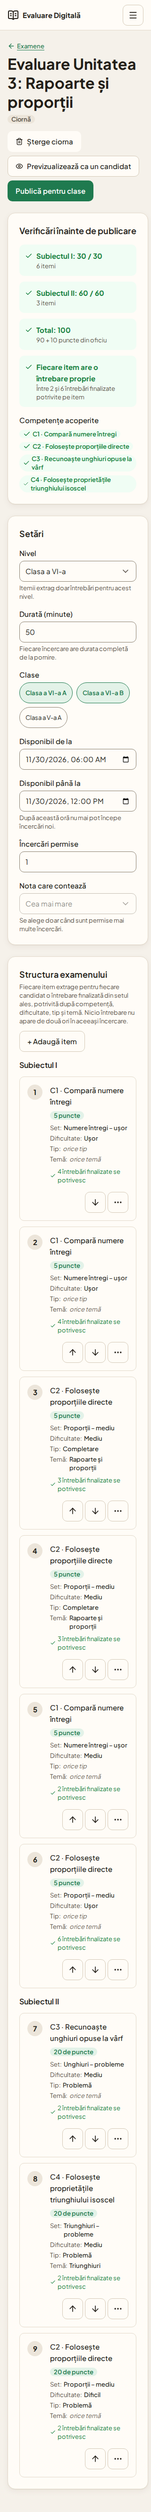
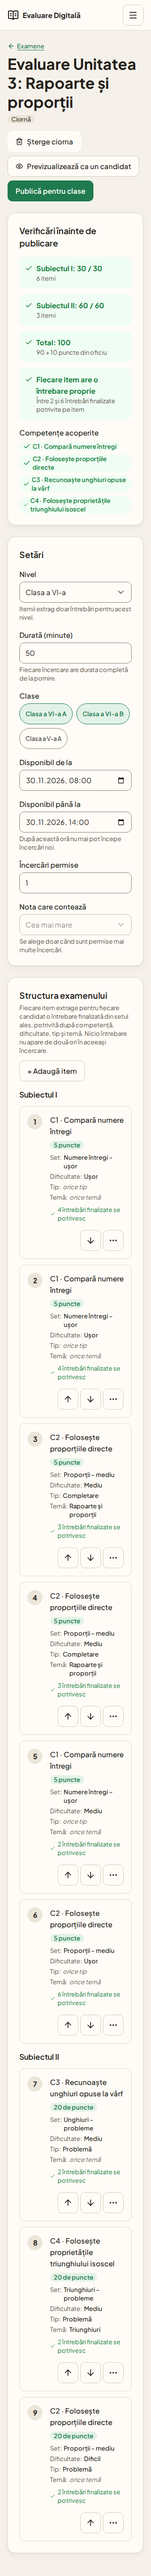
perf(frontend): load signed-in pages on demand; test(e2e): Romanian locale and Bucharest time for screenshots
The main bundle drops from 503 kB to 323 kB (Vite's 500 kB warning is gone); each signed-in page is
its own chunk, with a spinner while it loads. Playwright runs with ro-RO and Europe/Bucharest (plus
LANG=ro_RO.UTF-8 on the container for Chromium's native date fields); DS-008 screenshots retaken.

diff --git a/frontend/src/App.tsx b/frontend/src/App.tsx
@@ -3,16 +3,32 @@ import { AuthProvider } from './auth/AuthProvider'
 import { landingPath, useAuth } from './auth/context'
 import { ProtectedRoute } from './auth/ProtectedRoute'
 import AppHeader from './components/AppHeader'
-import ChangePasswordPage from './pages/ChangePasswordPage'
+import { LoaderCircle } from 'lucide-react'
+import { lazy, Suspense } from 'react'
+import { useTranslation } from 'react-i18next'
 import LoginPage from './pages/LoginPage'
-import UsersPage from './pages/admin/UsersPage'
-import ClassesPage from './pages/examiner/ClassesPage'
-import ExamBuilderPage from './pages/examiner/ExamBuilderPage'
-import ExamsPage from './pages/examiner/ExamsPage'
-import QuestionBankPage from './pages/examiner/QuestionBankPage'
 import PlaceholderHome from './pages/PlaceholderHome'
 import RegisterPage from './pages/RegisterPage'
 import SessionLoading from './components/SessionLoading'
+
+// Signed-in screens load when first opened, so the login screen stays light (one chunk per page).
+const ChangePasswordPage = lazy(() => import('./pages/ChangePasswordPage'))
+const UsersPage = lazy(() => import('./pages/admin/UsersPage'))
+const ClassesPage = lazy(() => import('./pages/examiner/ClassesPage'))
+const ExamBuilderPage = lazy(() => import('./pages/examiner/ExamBuilderPage'))
+const ExamsPage = lazy(() => import('./pages/examiner/ExamsPage'))
+const QuestionBankPage = lazy(() => import('./pages/examiner/QuestionBankPage'))
+
+/** Shown while a page's code loads (usually a moment). */
+function PageLoading() {
+  const { t } = useTranslation()
+  return (
+    <main role="status" className="grid flex-1 place-items-center px-4 py-16">
+      <LoaderCircle className="size-icon-lg animate-spin text-accent motion-reduce:animate-none" aria-hidden="true" />
+      <span className="sr-only">{t('session.page')}</span>
+    </main>
+  )
+}
 
 // "/" goes to the signed-in user's home, or to the login screen.
 function RootRedirect() {
@@ -27,19 +43,21 @@ export default function App() {
       <AuthProvider>
         <div className="flex min-h-screen flex-col">
           <AppHeader />
-          <Routes>
-            <Route path="/" element={<RootRedirect />} />
-            <Route path="/login" element={<LoginPage />} />
-            <Route path="/register" element={<RegisterPage />} />
-            <Route path="/change-password" element={<ChangePasswordPage />} />
-            <Route path="/candidate" element={<ProtectedRoute role="candidate"><PlaceholderHome role="candidate" /></ProtectedRoute>} />
-            <Route path="/examiner" element={<ProtectedRoute role="examiner"><ClassesPage /></ProtectedRoute>} />
-            <Route path="/examiner/questions" element={<ProtectedRoute role="examiner"><QuestionBankPage /></ProtectedRoute>} />
-            <Route path="/examiner/exams" element={<ProtectedRoute role="examiner"><ExamsPage /></ProtectedRoute>} />
-            <Route path="/examiner/exams/:id" element={<ProtectedRoute role="examiner"><ExamBuilderPage /></ProtectedRoute>} />
-            <Route path="/admin" element={<ProtectedRoute role="administrator"><UsersPage /></ProtectedRoute>} />
-            <Route path="*" element={<Navigate to="/" replace />} />
-          </Routes>
+          <Suspense fallback={<PageLoading />}>
+            <Routes>
+              <Route path="/" element={<RootRedirect />} />
+              <Route path="/login" element={<LoginPage />} />
+              <Route path="/register" element={<RegisterPage />} />
+              <Route path="/change-password" element={<ChangePasswordPage />} />
+              <Route path="/candidate" element={<ProtectedRoute role="candidate"><PlaceholderHome role="candidate" /></ProtectedRoute>} />
+              <Route path="/examiner" element={<ProtectedRoute role="examiner"><ClassesPage /></ProtectedRoute>} />
+              <Route path="/examiner/questions" element={<ProtectedRoute role="examiner"><QuestionBankPage /></ProtectedRoute>} />
+              <Route path="/examiner/exams" element={<ProtectedRoute role="examiner"><ExamsPage /></ProtectedRoute>} />
+              <Route path="/examiner/exams/:id" element={<ProtectedRoute role="examiner"><ExamBuilderPage /></ProtectedRoute>} />
+              <Route path="/admin" element={<ProtectedRoute role="administrator"><UsersPage /></ProtectedRoute>} />
+              <Route path="*" element={<Navigate to="/" replace />} />
+            </Routes>
+          </Suspense>
         </div>
       </AuthProvider>
     </BrowserRouter>

diff --git a/frontend/playwright.config.ts b/frontend/playwright.config.ts
@@ -7,6 +7,11 @@ export default defineConfig({
   reporter: 'list',
   use: {
     baseURL: 'http://localhost:5173',
+    // As the teachers' browsers: Romanian formats (date fields) and Romania's time zone.
+    locale: 'ro-RO',
+    timezoneId: 'Europe/Bucharest',
+    // Native date fields follow Chromium's own interface language, not the page locale.
+    launchOptions: { args: ['--lang=ro-RO'] },
     trace: 'retain-on-failure',
   },
   projects: [{ name: 'chromium', use: { ...devices['Desktop Chrome'] } }],
